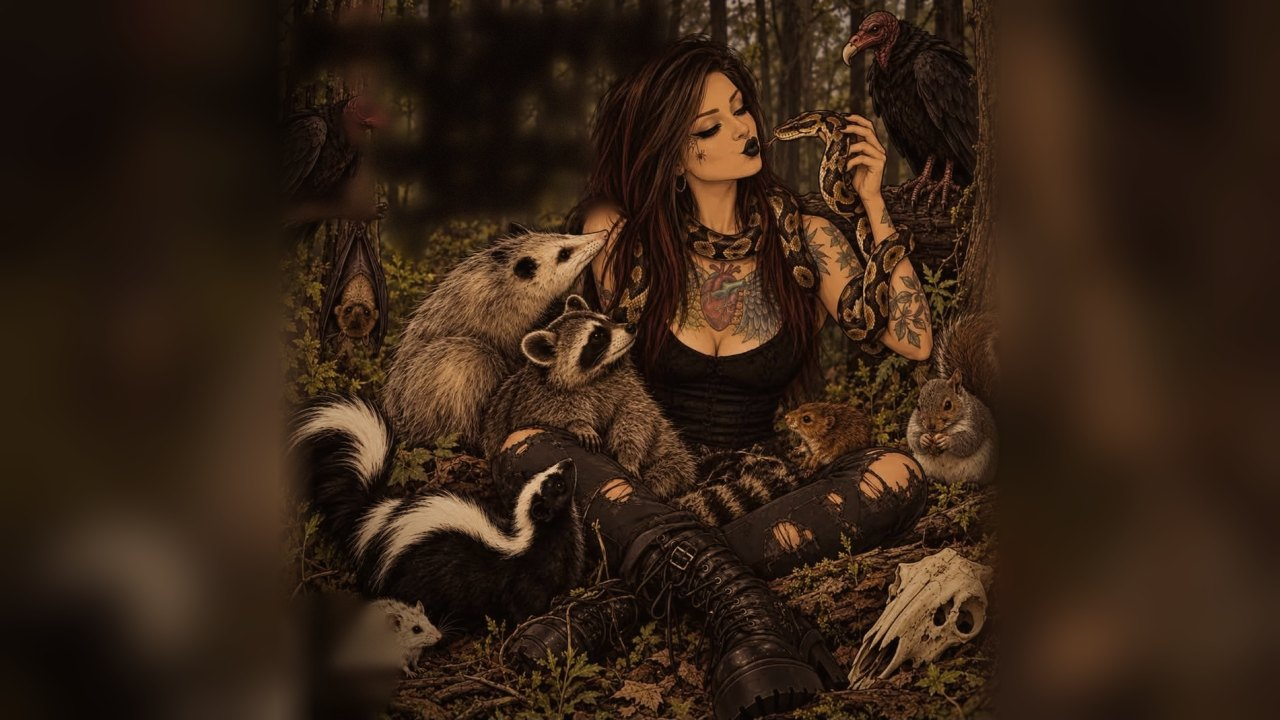
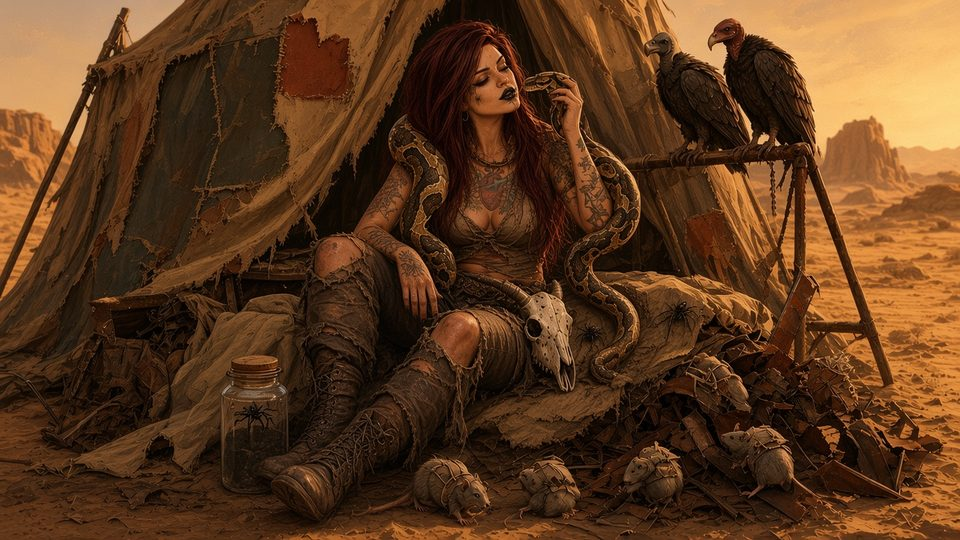
v131: new Jodi cover (960x540 q82), band for the new composition (#142)

diff --git a/scripts/smoke.ts b/scripts/smoke.ts
@@ -2728,7 +2728,7 @@ assert(ids(s).includes('sybella-hold') && ids(s).includes('sybella-defy') && ids
 }
 
 const sw = readFileSync(new URL('../public/sw.js', import.meta.url), 'utf8')
-assert(sw.includes("CACHE = 'amber-shroud-v130'") && sw.includes('covers/carapace.jpg'), 'SW bumped so new portraits reach Pages')
+assert(sw.includes("CACHE = 'amber-shroud-v131'") && sw.includes('covers/carapace.jpg'), 'SW bumped so new portraits reach Pages')
 assert(sw.includes('covers/bonewright.jpg') && sw.includes('covers/kaelen.jpg'), 'SW precaches NPC covers')
 assert(sw.includes('covers/camp04.jpg') && sw.includes('covers/sybella.jpg'), 'SW precaches door and antagonist covers')
 assert(sw.includes('favicon.png') && !sw.includes('favicon.svg'), 'SW precaches the cover favicon, not the Drop SVG')
@@ -6670,4 +6670,12 @@ for (const [door, sceneId, hubId] of [['prisoner', 'camp:tower', 'camp04'], ['ou
   low = { ...low, heat: { ...low.heat, seekers: 5 }, flags: { ...low.flags, encounterHere: false, hunterHere: false } }
   assert(!GE.noticeHunt({ ...low, flags: { ...low.flags, encounterHere: true } }).flags.hunterHere, 'v130: no hunt over a fight')
   console.log('v130 checks OK')
+}
+
+// v131: new Jodi cover
+{
+  const jb = COVER_BAND.jodi
+  assert(jb[0] <= 0.05 && jb[1] >= 0.6, 'v131: Jodi band keeps face, python and vultures in view')
+  assert(readFileSync(new URL('../public/sw.js', import.meta.url), 'utf8').includes('covers/jodi.jpg'), 'v131: jodi.jpg precached')
+  console.log('v131 checks OK')
 }

diff --git a/src/game/art.ts b/src/game/art.ts
@@ -196,8 +196,8 @@ export const COVER_BAND: Record<CoverKey, [number, number]> = {
   // Jaxson on his back under the hull, the spark, the toolbox.
   hotwire: [0.2, 0.9],
   carapace: [0.0, 0.75],
-  // Jodi's face, the snake on her arm, and the vulture behind her are in the top half.
-  jodi: [0.04, 0.5],
+  // Jodi's face, the python, both vultures and her torso sit in the top 60%; the jar, skull and rats are below.
+  jodi: [0.02, 0.62],
   // Kaelen's crate lead: the open crate with its tally marks sits lower left-center.
   hoard: [0.42, 1.0],
   // Maw arrivals, one per door: the walker and the ribs / bone road / cairn ridge.

diff --git a/public/sw.js b/public/sw.js
@@ -1,4 +1,4 @@
-const CACHE = 'amber-shroud-v130'
+const CACHE = 'amber-shroud-v131'
 const SCOPE = self.location.pathname.replace(/sw\.js$/, '')
 
 self.addEventListener('install', (event) => {

diff --git a/src/version.ts b/src/version.ts
@@ -1,2 +1,2 @@
 /** Build label on the title screen. Keep in step with CACHE in public/sw.js. */
-export const BUILD = 'v130'
+export const BUILD = 'v131'
